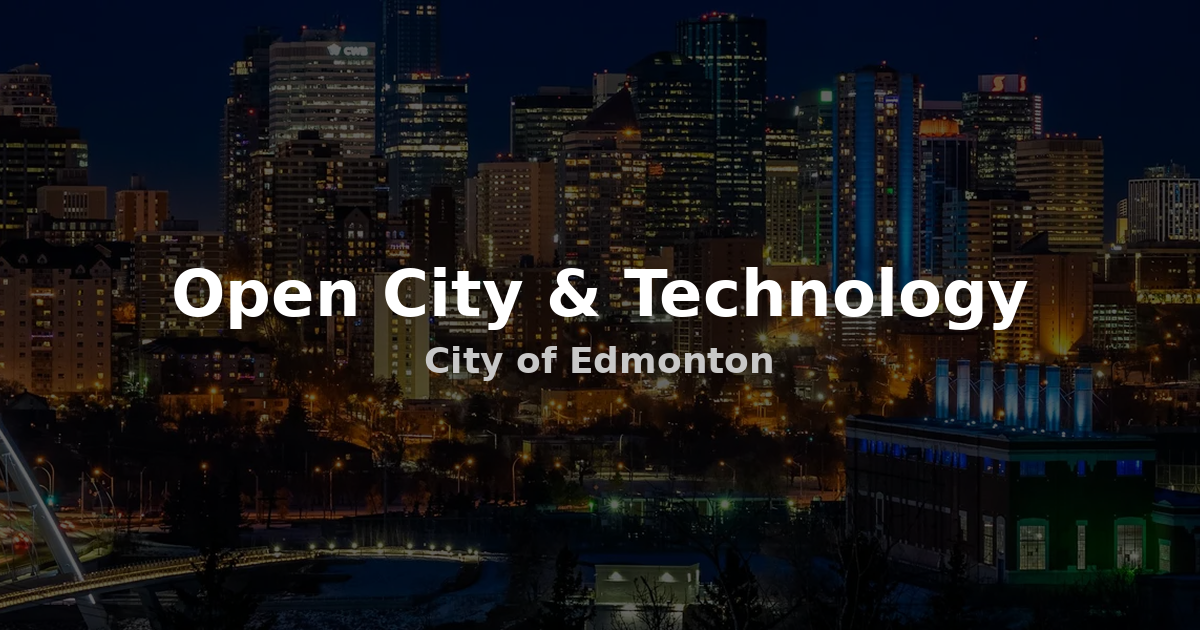
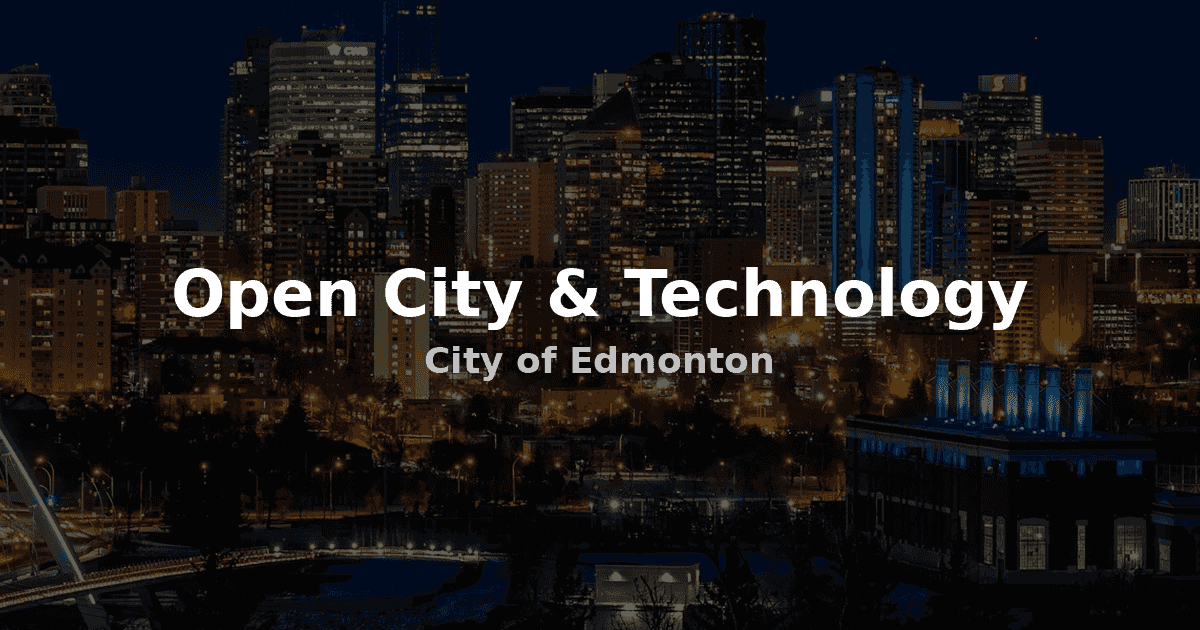
Optimize images: sizes attrs, priority prop, next/image, compress OG
- Convert <img> to next/image in offline page
- Add priority prop to above-the-fold branch banner on home page
- Add sizes attribute to KeyInitiatives, ServiceAreaCard, ServiceAreaModal,
  KeyInitiativesWidget, and ai-resources page images
- Compress og-default.png from 875KB to 148KB using palette optimization
- Check off all Image Optimization items in oct-web-dev checklist

Changed region(s): [[0.7708, 0.6032, 0.925, 0.6635], [0.8633, 0.5127, 0.8942, 0.573], [0.925, 0.8143, 0.9558, 0.8444]]

diff --git a/app/ai-resources/page.tsx b/app/ai-resources/page.tsx
@@ -81,6 +81,7 @@ export default function AIResourcesPage() {
                     alt="Gemini Logo"
                     width={64}
                     height={64}
+                    sizes="64px"
                     className="w-16 h-16 object-contain"
                   />
                 </div>
@@ -141,6 +142,7 @@ export default function AIResourcesPage() {
                     alt="Gemini Logo"
                     width={48}
                     height={48}
+                    sizes="48px"
                     className="w-12 h-12 object-contain"
                   />
                 </div>
@@ -170,6 +172,7 @@ export default function AIResourcesPage() {
                     alt="NotebookLM Logo"
                     width={48}
                     height={48}
+                    sizes="48px"
                     className="w-12 h-12 object-contain"
                   />
                 </div>
@@ -199,6 +202,7 @@ export default function AIResourcesPage() {
                     alt="Google Vids Logo"
                     width={48}
                     height={48}
+                    sizes="48px"
                     className="w-12 h-12 object-contain"
                   />
                 </div>
@@ -228,6 +232,7 @@ export default function AIResourcesPage() {
                     alt="Google AI Studio Logo"
                     width={48}
                     height={48}
+                    sizes="48px"
                     className="w-12 h-12 object-contain"
                   />
                 </div>

diff --git a/app/offline/page.tsx b/app/offline/page.tsx
@@ -1,5 +1,6 @@
 'use client';
 
+import Image from 'next/image';
 import { Button } from '@/components/ui/Button';
 
 export const dynamic = 'force-static';
@@ -90,7 +91,7 @@ export default function OfflinePage() {
       {/* Simplified static header — no API calls */}
       <header className="bg-primary-blue text-white px-4 sm:px-6 lg:px-8 py-4">
         <div className="max-w-7xl mx-auto flex items-center gap-3">
-          <img src="/icons/icon-72x72.png" alt="City of Edmonton" className="w-10 h-10" />
+          <Image src="/icons/icon-72x72.png" alt="City of Edmonton" width={40} height={40} />
           <span className="font-sans text-lg font-semibold">Open City &amp; Technology</span>
         </div>
       </header>

diff --git a/components/KeyInitiatives.tsx b/components/KeyInitiatives.tsx
@@ -59,6 +59,7 @@ export default function KeyInitiatives() {
                   alt={slide.alt}
                   width={1200}
                   height={600}
+                  sizes="(max-width: 1024px) 100vw, 896px"
                   className="w-full h-96 object-cover opacity-30"
                 />
                 <div className="absolute inset-0 flex flex-col justify-end p-8 md:p-12">

diff --git a/components/widgets/KeyInitiativesWidget.tsx b/components/widgets/KeyInitiativesWidget.tsx
@@ -48,6 +48,7 @@ export default function KeyInitiativesWidget({ slides }: { slides: KeyInitiative
                     alt={slide.imageAlt}
                     width={1200}
                     height={600}
+                    sizes="(max-width: 1024px) 100vw, 896px"
                     className="w-full h-96 object-cover opacity-30"
                   />
                 ) : (

diff --git a/app/page.tsx b/app/page.tsx
@@ -35,6 +35,7 @@ export default function Home() {
                 alt="Technology"
                 fill
                 sizes="(max-width: 768px) 33vw, 50vw"
+                priority
                 className="object-cover object-left"
               />
               {/* Gradient fade to blend into the blue background */}

diff --git a/components/ServiceAreaModal.tsx b/components/ServiceAreaModal.tsx
@@ -85,6 +85,7 @@ export default function ServiceAreaModal({
                   alt={title}
                   width={80}
                   height={80}
+                  sizes="80px"
                   className="rounded-lg"
                 />
               </div>

diff --git a/components/ServiceAreaCard.tsx b/components/ServiceAreaCard.tsx
@@ -28,6 +28,7 @@ export default function ServiceAreaCard({
             alt={title}
             width={60}
             height={60}
+            sizes="60px"
             className="rounded-lg"
           />
         </div>

diff --git a/content/oct-web-dev.md b/content/oct-web-dev.md
@@ -355,11 +355,11 @@
 - [ ] Consider using ISR for dashboard pages
 
 ### Image Optimization
-- [ ] Add all external image domains to remotePatterns
-- [ ] Verify all images use next/image component
-- [ ] Add priority prop to above-the-fold images
-- [ ] Set appropriate sizes attribute for responsive images
-- [ ] Audit for oversized images
+- [x] Add all external image domains to remotePatterns
+- [x] Verify all images use next/image component
+- [x] Add priority prop to above-the-fold images
+- [x] Set appropriate sizes attribute for responsive images
+- [x] Audit for oversized images
 
 ### Service Worker Production Config
 - [x] Define cache-first strategy for static assets
